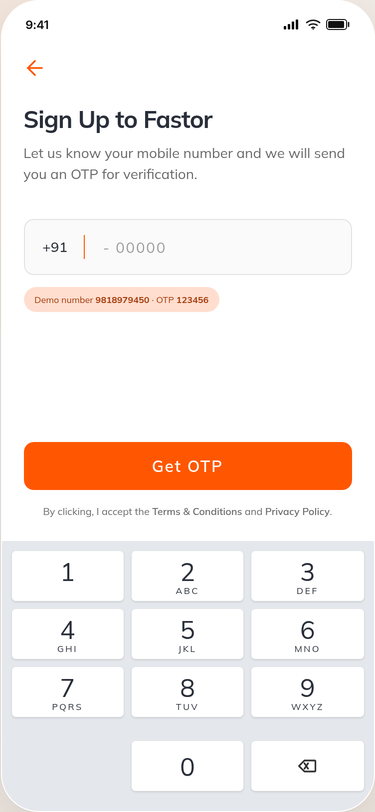
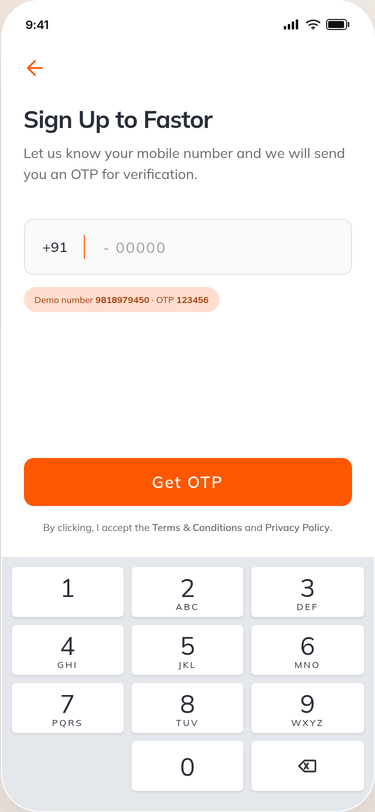
fix: tighten keypad zero row and restore backspace key surface

Changed region(s): [[0.0, 0.5234, 0.9973, 0.9236]]

diff --git a/reactjs/src/styles.css b/reactjs/src/styles.css
@@ -420,6 +420,7 @@ input:focus-visible {
 }
 
 .key-back {
+  background: #fff;
   color: #333;
 }
 
@@ -1832,7 +1833,7 @@ input:focus-visible {
 
 .keypad .key:nth-last-child(2),
 .keypad .key:last-child {
-  margin-top: 16px;
+  margin-top: 0;
 }
 
 .key {
